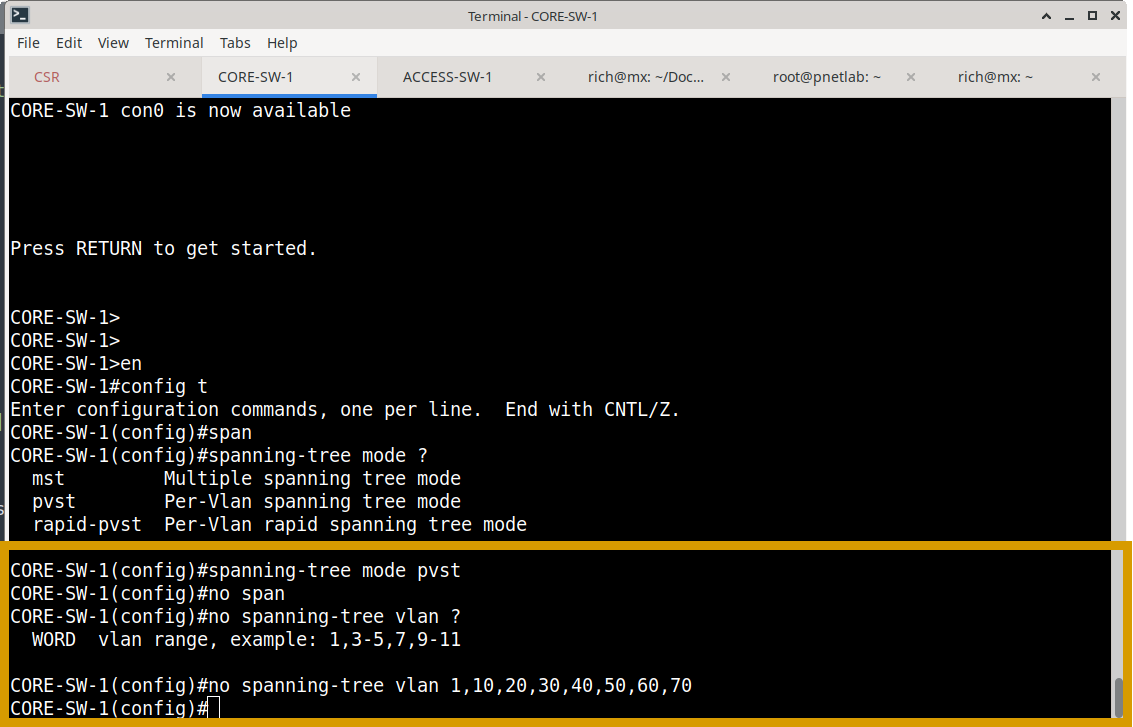
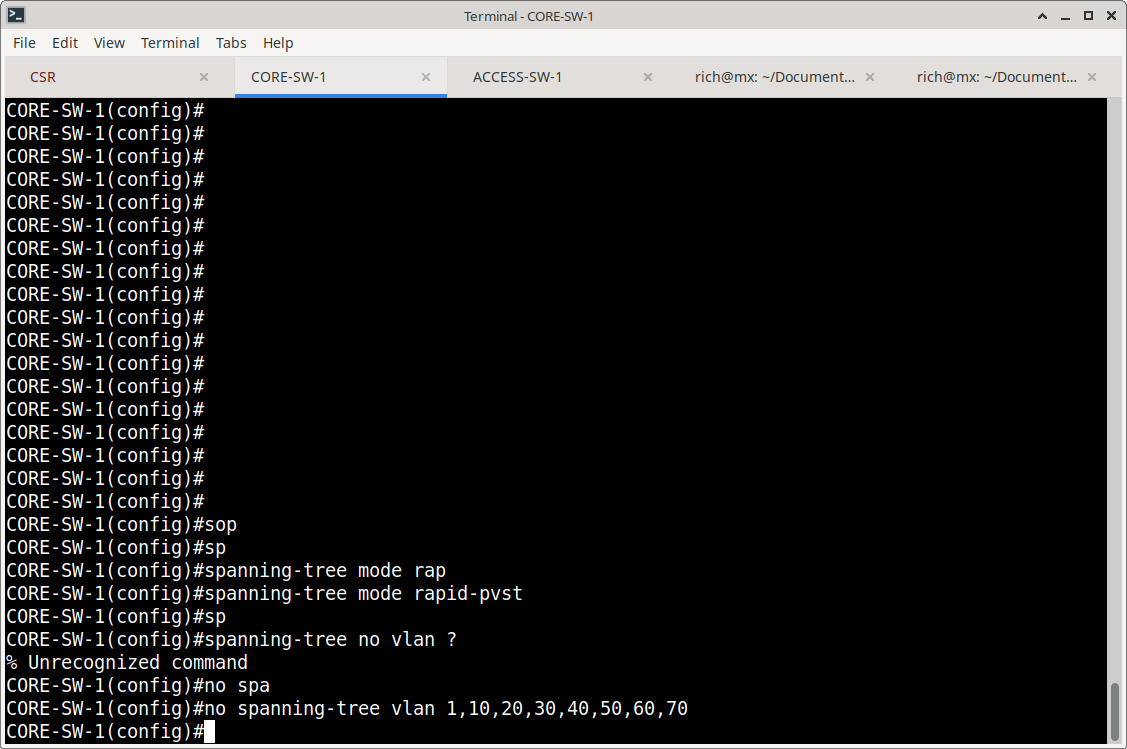
“README”

Changed region(s): [[0.0, 0.0, 1.0, 1.0], [0.4037, 0.0, 0.528, 0.0303]]

diff --git a/src/compliance/switching/stp/compliance.py b/src/compliance/switching/stp/compliance.py
@@ -17,6 +17,7 @@ def compliance_stp_global(sesh, device_ip, context, device_state, device_result,
     )
     if exp_stp:
         ok, failures = check_stp_global(exp_stp, act_stp)
+        print(failures)
         log_extra = {
             "device_ip": device_ip,
             "component": "main_process",
@@ -150,6 +151,8 @@ def compliance_stp_interfaces(
 
     if exp_stp_int:
         ok, failures = check_stp_interfaces(exp_stp_int, act_stp_int)
+        print("\n".join(failures))
+
         log_extra = {
             "device_ip": device_ip,
             "component": "main_process",

diff --git a/src/compliance/switching/stp/check.py b/src/compliance/switching/stp/check.py
@@ -20,7 +20,7 @@ def check_stp_global(expected_stp, actual_config):
 
     if exp_vlans.keys() != act_vlans.keys():
         failures.append(
-            f"(STP) Mismatched VLANs | Expected: {exp_vlans.keys()} | Actual: {act_vlans.keys()}"
+            f"(STP) Mismatched VLANs | Expected: {','.join(exp_vlans.keys())} | Actual: {','.join(act_vlans.keys())}"
         )
         return False, failures
     for vlan in exp_vlans.keys():

diff --git a/src/collectors/cli/builders.py b/src/collectors/cli/builders.py
@@ -106,7 +106,7 @@ def build_stp_global(device_state):
         "vlan_priorities": {},
     }
     if "rapid_pvst" in stp:
-        mode = "rapidpvst"
+        mode = "rapid-pvst"
         vlans = stp.get("rapid_pvst", {}).get("vlans", {})
     elif "pvst" in stp:
         mode = "pvst"

diff --git a/Feature Execution Walkthrough/stp/README.md b/Feature Execution Walkthrough/stp/README.md
@@ -542,7 +542,7 @@ def check_stp_global(expected_stp, actual_config):
 
     if exp_vlans.keys() != act_vlans.keys():
         failures.append(
-            f"(STP) Mismatched VLANs | Expected: {exp_vlans.keys()} | Actual: {act_vlans.keys()}"
+            f"(STP) Mismatched VLANs | Expected: {','.join(exp_vlans.keys())} | Actual: {','.join(act_vlans.keys())}"
         )
         return False, failures
     for vlan in exp_vlans.keys():
@@ -888,28 +888,33 @@ The dual STP engine was validated across both switches against five distinct ope
 
 ---
 
-#### Scenario A - Global Operating‑Mode Drift (PVST+ Fallback)
-When `CORE-SW-1` was reverted from `rapid-pvst` to legacy `pvst`, the global engine raised `stp_non_compliant` with the exact mode diff:
+#### Scenario C — VLAN Set Parity Drift (Mismatched VLAN Topology)
+On `CORE-SW-1`, per‑VLAN spanning‑tree instances were disabled across VLANs `1, 10–70` while the global mode was held at `rapid-pvst`, leaving only the native VLAN `999` in the live STP instance table. Because the operating **mode** still matched NetBox intent, `check_stp_global()` passed the mode gate and halted at the **VLAN‑set parity** gate, emitting a single set‑difference failure:
 
-![Cisco Console STP Mode Manipulation](screenshots/check-stp-global-intentional-config-missing-vlans.png)
+![Cisco Console STP VLAN Disable](screenshots/check-stp-global-intentional-config-missing-vlans.png)
 
 ```cisco
-CORE-SW-1(config)# spanning-tree mode pvst
+CORE-SW-1(config)# spanning-tree mode rap
+CORE-SW-1(config)# spanning-tree mode rapid-pvst
+CORE-SW-1(config)# sp
+CORE-SW-1(config)# spanning-tree no vlan ?
+% Unrecognized command
+CORE-SW-1(config)# no spa
 CORE-SW-1(config)# no spanning-tree vlan 1,10,20,30,40,50,60,70
 ```
 
-![Cisco Console STP Mode Manipulation](screenshots/check-mismatched-stp-mode.png)
+**Compliance Engine Output (Run @ 05:52):**
+`check_stp_global()` compared the NetBox `vlan_priorities` key set against the live STP instance set. The mode matched, so the run surfaced the topology divergence as one `Mismatched VLANs` string — expected `10–70`, actual only `999` — and the interface‑guard pipeline passed (`stp_interfaces_compliant`) because the prior remediation had already hardened the ports:
+
+![Terminal Mismatched VLANs Diff](screenshots/check-print-missing-vlans.png)
 
 ```text
-2026-11-24 03:40:15,583 - WARNING - stp_non_compliant
-['Mismatched STP Mode | Expected: rapid-pvst | Actual: pvst']
-2026-11-24 03:40:15,603 - WARNING - stp_interfaces_non_compliant
-2026-11-24 03:40:17,808 - INFO - Final Compliance Report Saved Successfully
-2026-11-24 03:40:17,808 - INFO - ----- AUTOMATION COMPLETE -----
-
-Process finished with exit code 0
+2026-11-25 05:52:37,095 - WARNING - stp_non_compliant
+['(STP) Mismatched VLANs | Expected: 10,20,30,40,50,60,70 | Actual: 999']
+2026-11-25 05:52:37,123 - INFO - stp_interfaces_compliant
 ```
 
+> **Gate‑order proof:** the single string (not a priority diff) confirms `check_stp_global()` short‑circuits on the VLAN‑set gate before per‑VLAN priority comparison — a missing instance is reported as topology drift, not as 7 separate priority mismatches.
 ---
 
 #### Scenario B - Per‑VLAN Bridge‑Priority Drift (Root Bridge Hijack)
@@ -960,7 +965,7 @@ CORE-SW-1(config)# no spanning-tree vlan 1,10,20,30,40,50,60,70
 
 ---
 
-#### Scenario D - Interface Edge‑Guard Drift (Unauthorized Root Guard & Missing Protections)
+#### Scenario D — Interface Edge‑Guard Drift (Unauthorized Root Guard & Missing Protections)
 To validate the interface‑guard diff engine, `spanning-tree guard root` was manually injected across the access workstation range `Ethernet1/0–1/3` on `ACCESS-SW-1`, while the required `portfast` and `bpduguard` commands were omitted, and uplink `Ethernet0/1` lacked `loop_guard`:
 
 ![Cisco Console STP Root Guard](screenshots/check-intentional-root-guard-config.png)
@@ -974,29 +979,44 @@ ACCESS-SW-1(config-if-range)# spanning-tree guard root
 *Nov 24 09:34:59.601: %SPANTREE-2-ROOTGUARD_CONFIG_CHANGE: Root guard enabled on port Ethernet1/3.
 ```
 
-**Diff Engine Detection:**
-`check_stp_interfaces()` parsed the live running configuration and printed the exact failure array, isolating the missing `loop_guard` on uplink `Ethernet0/1`, the missing `portfast` on edge ports, and the unauthorized `root_guard` on `Ethernet1/0–1/3`:
+**Diff Engine Detection (Run @ 05:59):**
+`check_stp_interfaces()` parsed the live running configuration and emitted the exact per‑feature failure array. The diff correctly isolates three distinct violation classes in a single pass:
+
+1. **Missing edge protections** on host ports (`ethernet0/0`, `ethernet0/2`, `ethernet0/3`, `ethernet1/0–1/3`) — `portfast: True` and `bpdu_guard: True` expected, `False` observed.
+2. **Missing loop guard** on the distribution uplink (`ethernet0/1`) — `loop_guard: True` expected, `False` observed.
+3. **Unauthorized root guard** on the workstation range (`ethernet1/0–1/3`) — `root_guard: False` expected, `True` observed (rogue injection).
 
 ![Terminal Interface STP Failures Output](screenshots/check-print-mismatched-feature-mode.png)
 
 ```text
-(STP) Mismatched STP Mode | Interface: ethernet0/1 | Feature: portfast   | Expected: None | Actual: False
-(STP) Mismatched STP Mode | Interface: ethernet0/1 | Feature: bpdu_guard | Expected: None | Actual: False
-(STP) Mismatched STP Mode | Interface: ethernet0/1 | Feature: root_guard | Expected: None | Actual: False
-(STP) Mismatched STP Mode | Interface: ethernet0/1 | Feature: loop_guard | Expected: True | Actual: False
-(STP) Mismatched STP Mode | Interface: ethernet0/1 | Feature: bpdu_filter | Expected: None | Actual: False
-(STP) Mismatched STP Mode | Interface: ethernet0/2 | Feature: portfast   | Expected: True | Actual: False
-(STP) Mismatched STP Mode | Interface: ethernet0/3 | Feature: portfast   | Expected: True | Actual: False
-(STP) Mismatched STP Mode | Interface: ethernet1/0 | Feature: portfast   | Expected: True | Actual: False
-(STP) Mismatched STP Mode | Interface: ethernet1/0 | Feature: root_guard | Expected: None | Actual: True
-(STP) Mismatched STP Mode | Interface: ethernet1/1 | Feature: portfast   | Expected: True | Actual: False
-(STP) Mismatched STP Mode | Interface: ethernet1/1 | Feature: root_guard | Expected: None | Actual: True
-(STP) Mismatched STP Mode | Interface: ethernet1/2 | Feature: portfast   | Expected: True | Actual: False
-(STP) Mismatched STP Mode | Interface: ethernet1/2 | Feature: root_guard | Expected: None | Actual: True
-(STP) Mismatched STP Mode | Interface: ethernet1/3 | Feature: portfast   | Expected: True | Actual: False
-(STP) Mismatched STP Mode | Interface: ethernet1/3 | Feature: root_guard | Expected: None | Actual: True
-2026-11-24 04:53:28,630 - WARNING - stp_interfaces_non_compliant
+2026-11-25 05:59:42,085 - WARNING - stp_non_compliant
+2026-11-25 05:59:42,102 - WARNING - stp_interfaces_non_compliant
+(STP) Mismatched STP Mode | Interface: ethernet0/0 | Feature: portfast   | Expected: True  | Actual: False
+(STP) Mismatched STP Mode | Interface: ethernet0/0 | Feature: bpdu_guard | Expected: True  | Actual: False
+(STP) Mismatched STP Mode | Interface: ethernet0/1 | Feature: loop_guard | Expected: True  | Actual: False
+(STP) Mismatched STP Mode | Interface: ethernet0/2 | Feature: portfast   | Expected: True  | Actual: False
+(STP) Mismatched STP Mode | Interface: ethernet0/2 | Feature: bpdu_guard | Expected: True  | Actual: False
+(STP) Mismatched STP Mode | Interface: ethernet0/3 | Feature: portfast   | Expected: True  | Actual: False
+(STP) Mismatched STP Mode | Interface: ethernet0/3 | Feature: bpdu_guard | Expected: True  | Actual: False
+(STP) Mismatched STP Mode | Interface: ethernet1/0 | Feature: portfast   | Expected: True  | Actual: False
+(STP) Mismatched STP Mode | Interface: ethernet1/0 | Feature: bpdu_guard | Expected: True  | Actual: False
+(STP) Mismatched STP Mode | Interface: ethernet1/0 | Feature: root_guard | Expected: False | Actual: True
+(STP) Mismatched STP Mode | Interface: ethernet1/1 | Feature: portfast   | Expected: True  | Actual: False
+(STP) Mismatched STP Mode | Interface: ethernet1/1 | Feature: bpdu_guard | Expected: True  | Actual: False
+(STP) Mismatched STP Mode | Interface: ethernet1/1 | Feature: root_guard | Expected: False | Actual: True
+(STP) Mismatched STP Mode | Interface: ethernet1/2 | Feature: portfast   | Expected: True  | Actual: False
+(STP) Mismatched STP Mode | Interface: ethernet1/2 | Feature: bpdu_guard | Expected: True  | Actual: False
+(STP) Mismatched STP Mode | Interface: ethernet1/2 | Feature: root_guard | Expected: False | Actual: True
+(STP) Mismatched STP Mode | Interface: ethernet1/3 | Feature: portfast   | Expected: True  | Actual: False
+(STP) Mismatched STP Mode | Interface: ethernet1/3 | Feature: bpdu_guard | Expected: True  | Actual: False
+(STP) Mismatched STP Mode | Interface: ethernet1/3 | Feature: root_guard | Expected: False | Actual: True
+2026-11-25 05:59:44,309 - INFO - Final Compliance Report Saved Successfully
+2026-11-25 05:59:44,309 - INFO - ----- AUTOMATION COMPLETE -----
+
+Process finished with exit code 0
 ```
+
+> **Gate‑order proof:** the diff compares every NetBox‑declared guard against the live state independently. A single port can produce multiple failure lines (e.g., `ethernet1/0` emits three missing portfast, missing bpduguard, *and* rogue root‑guard) proving the engine audits the full five‑feature matrix per interface rather than short‑circuiting on the first mismatch.
 
 ---
 
